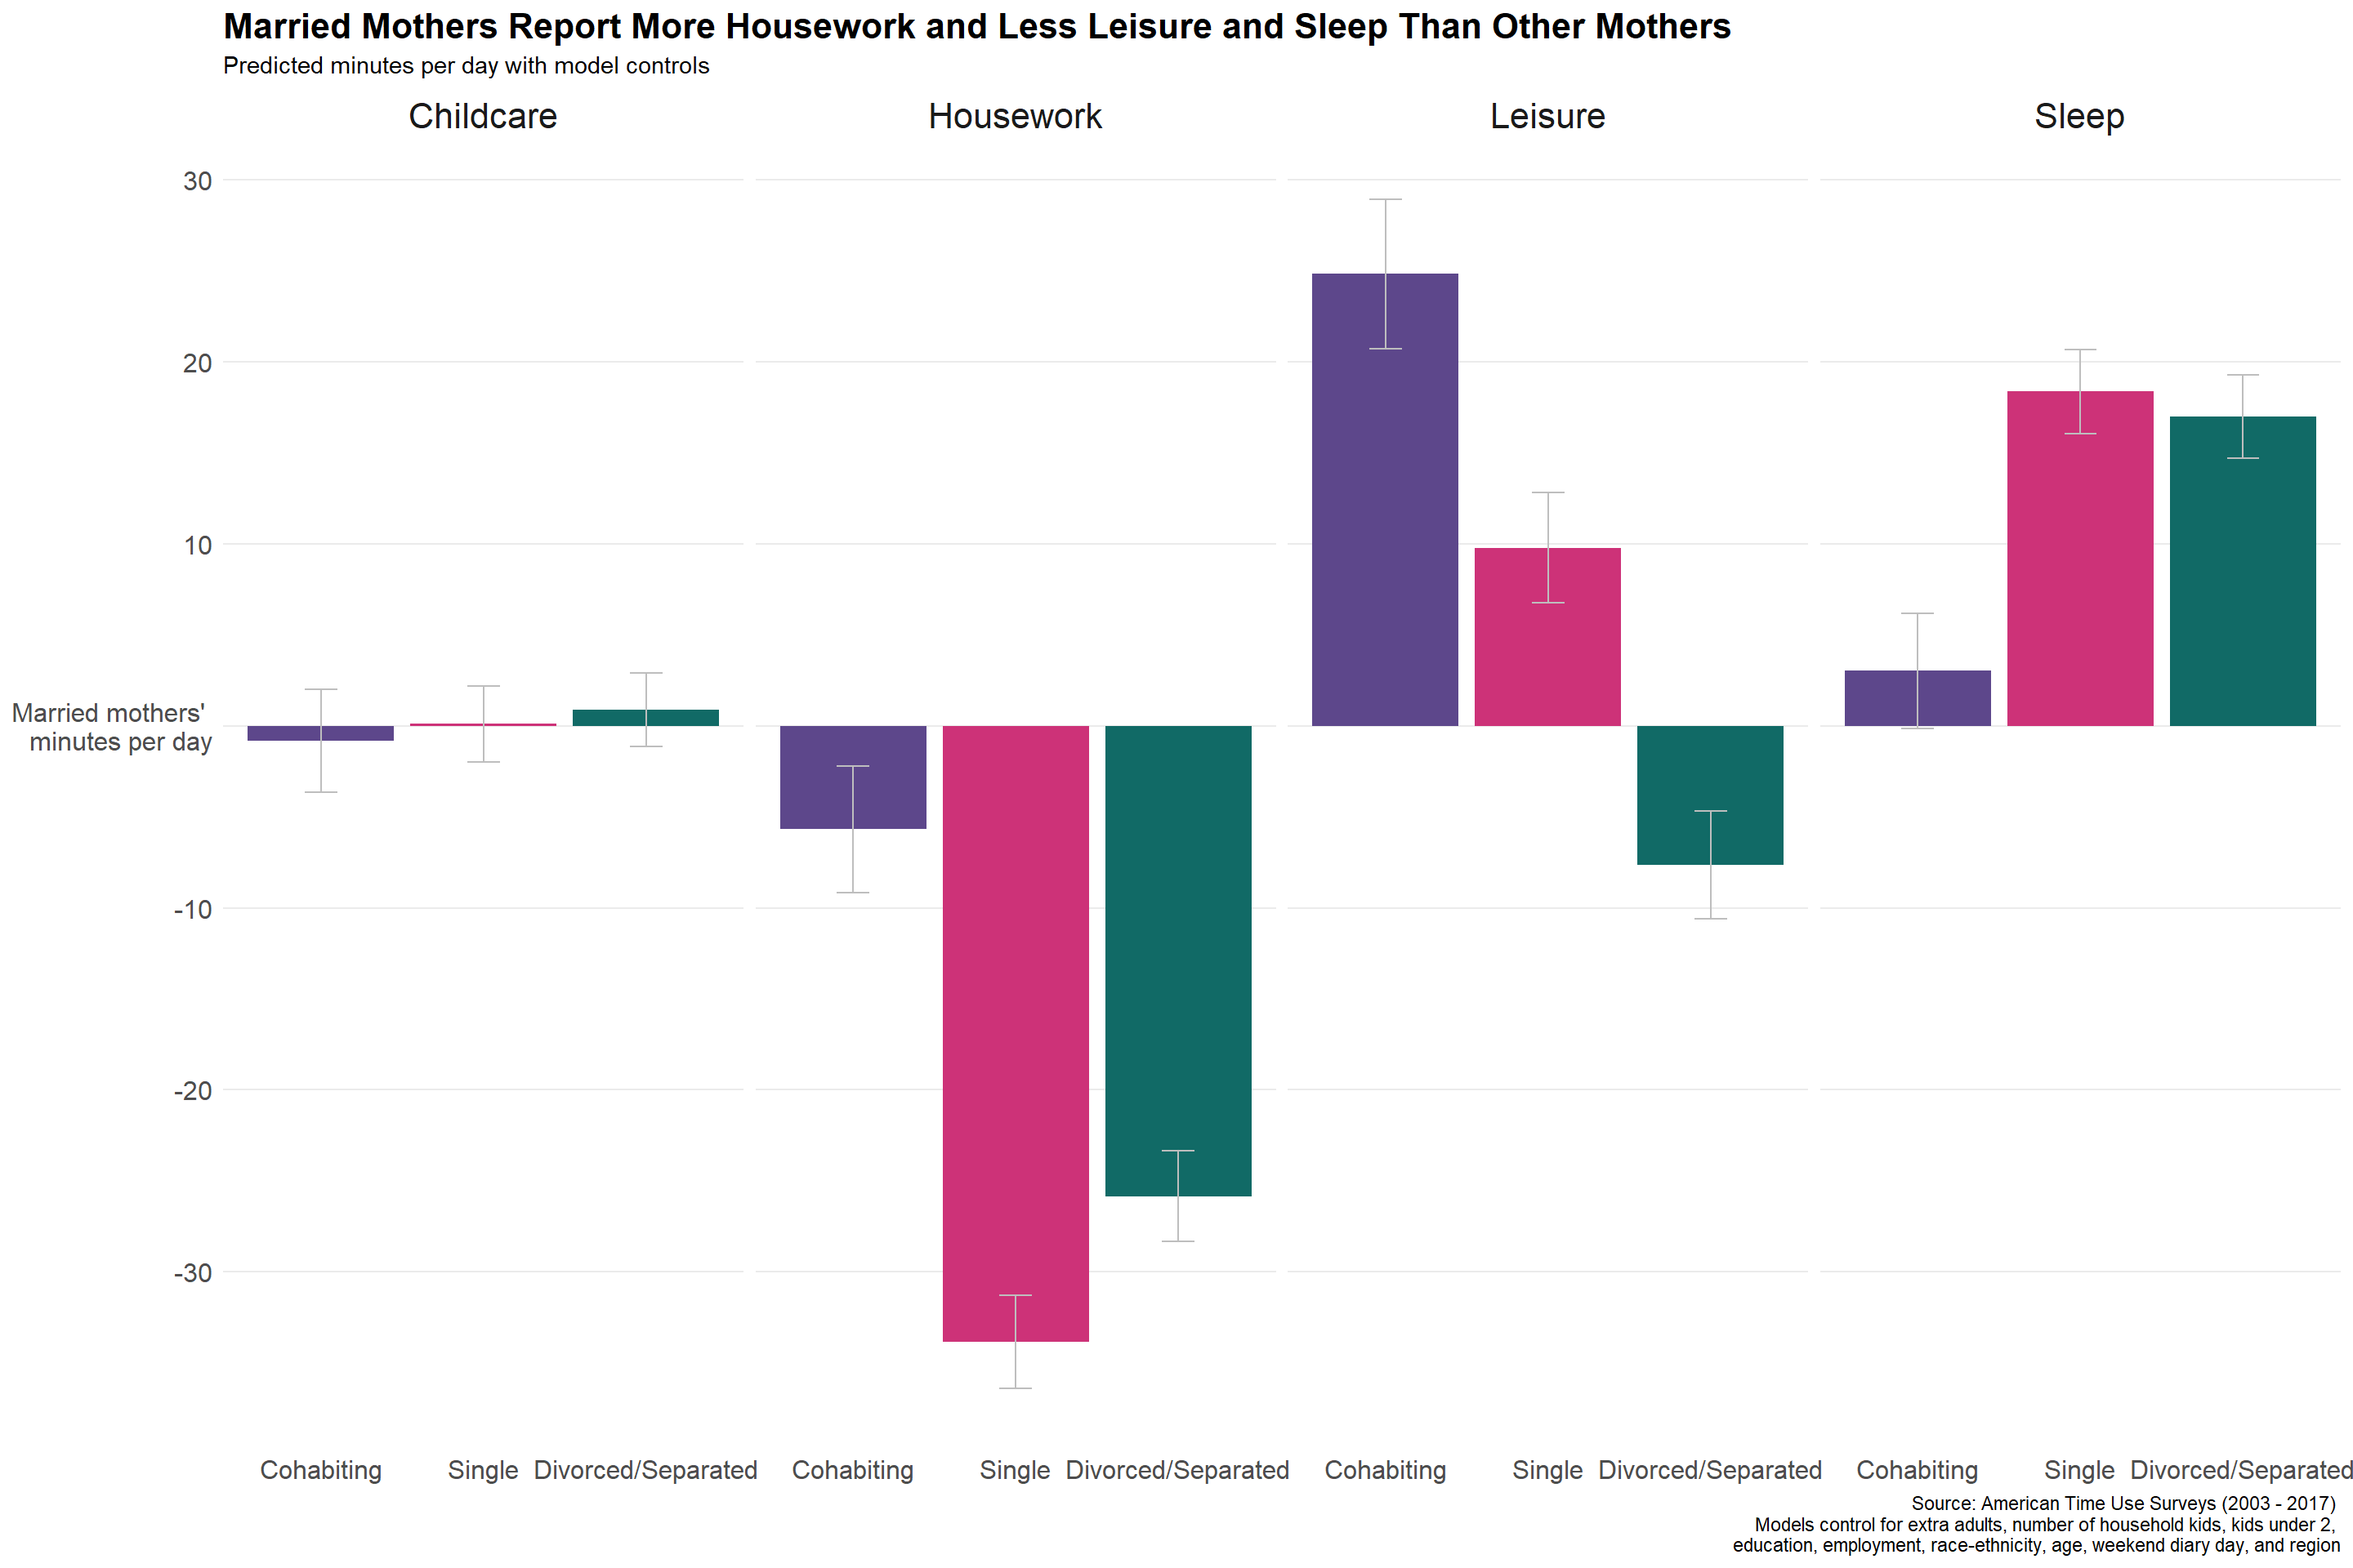
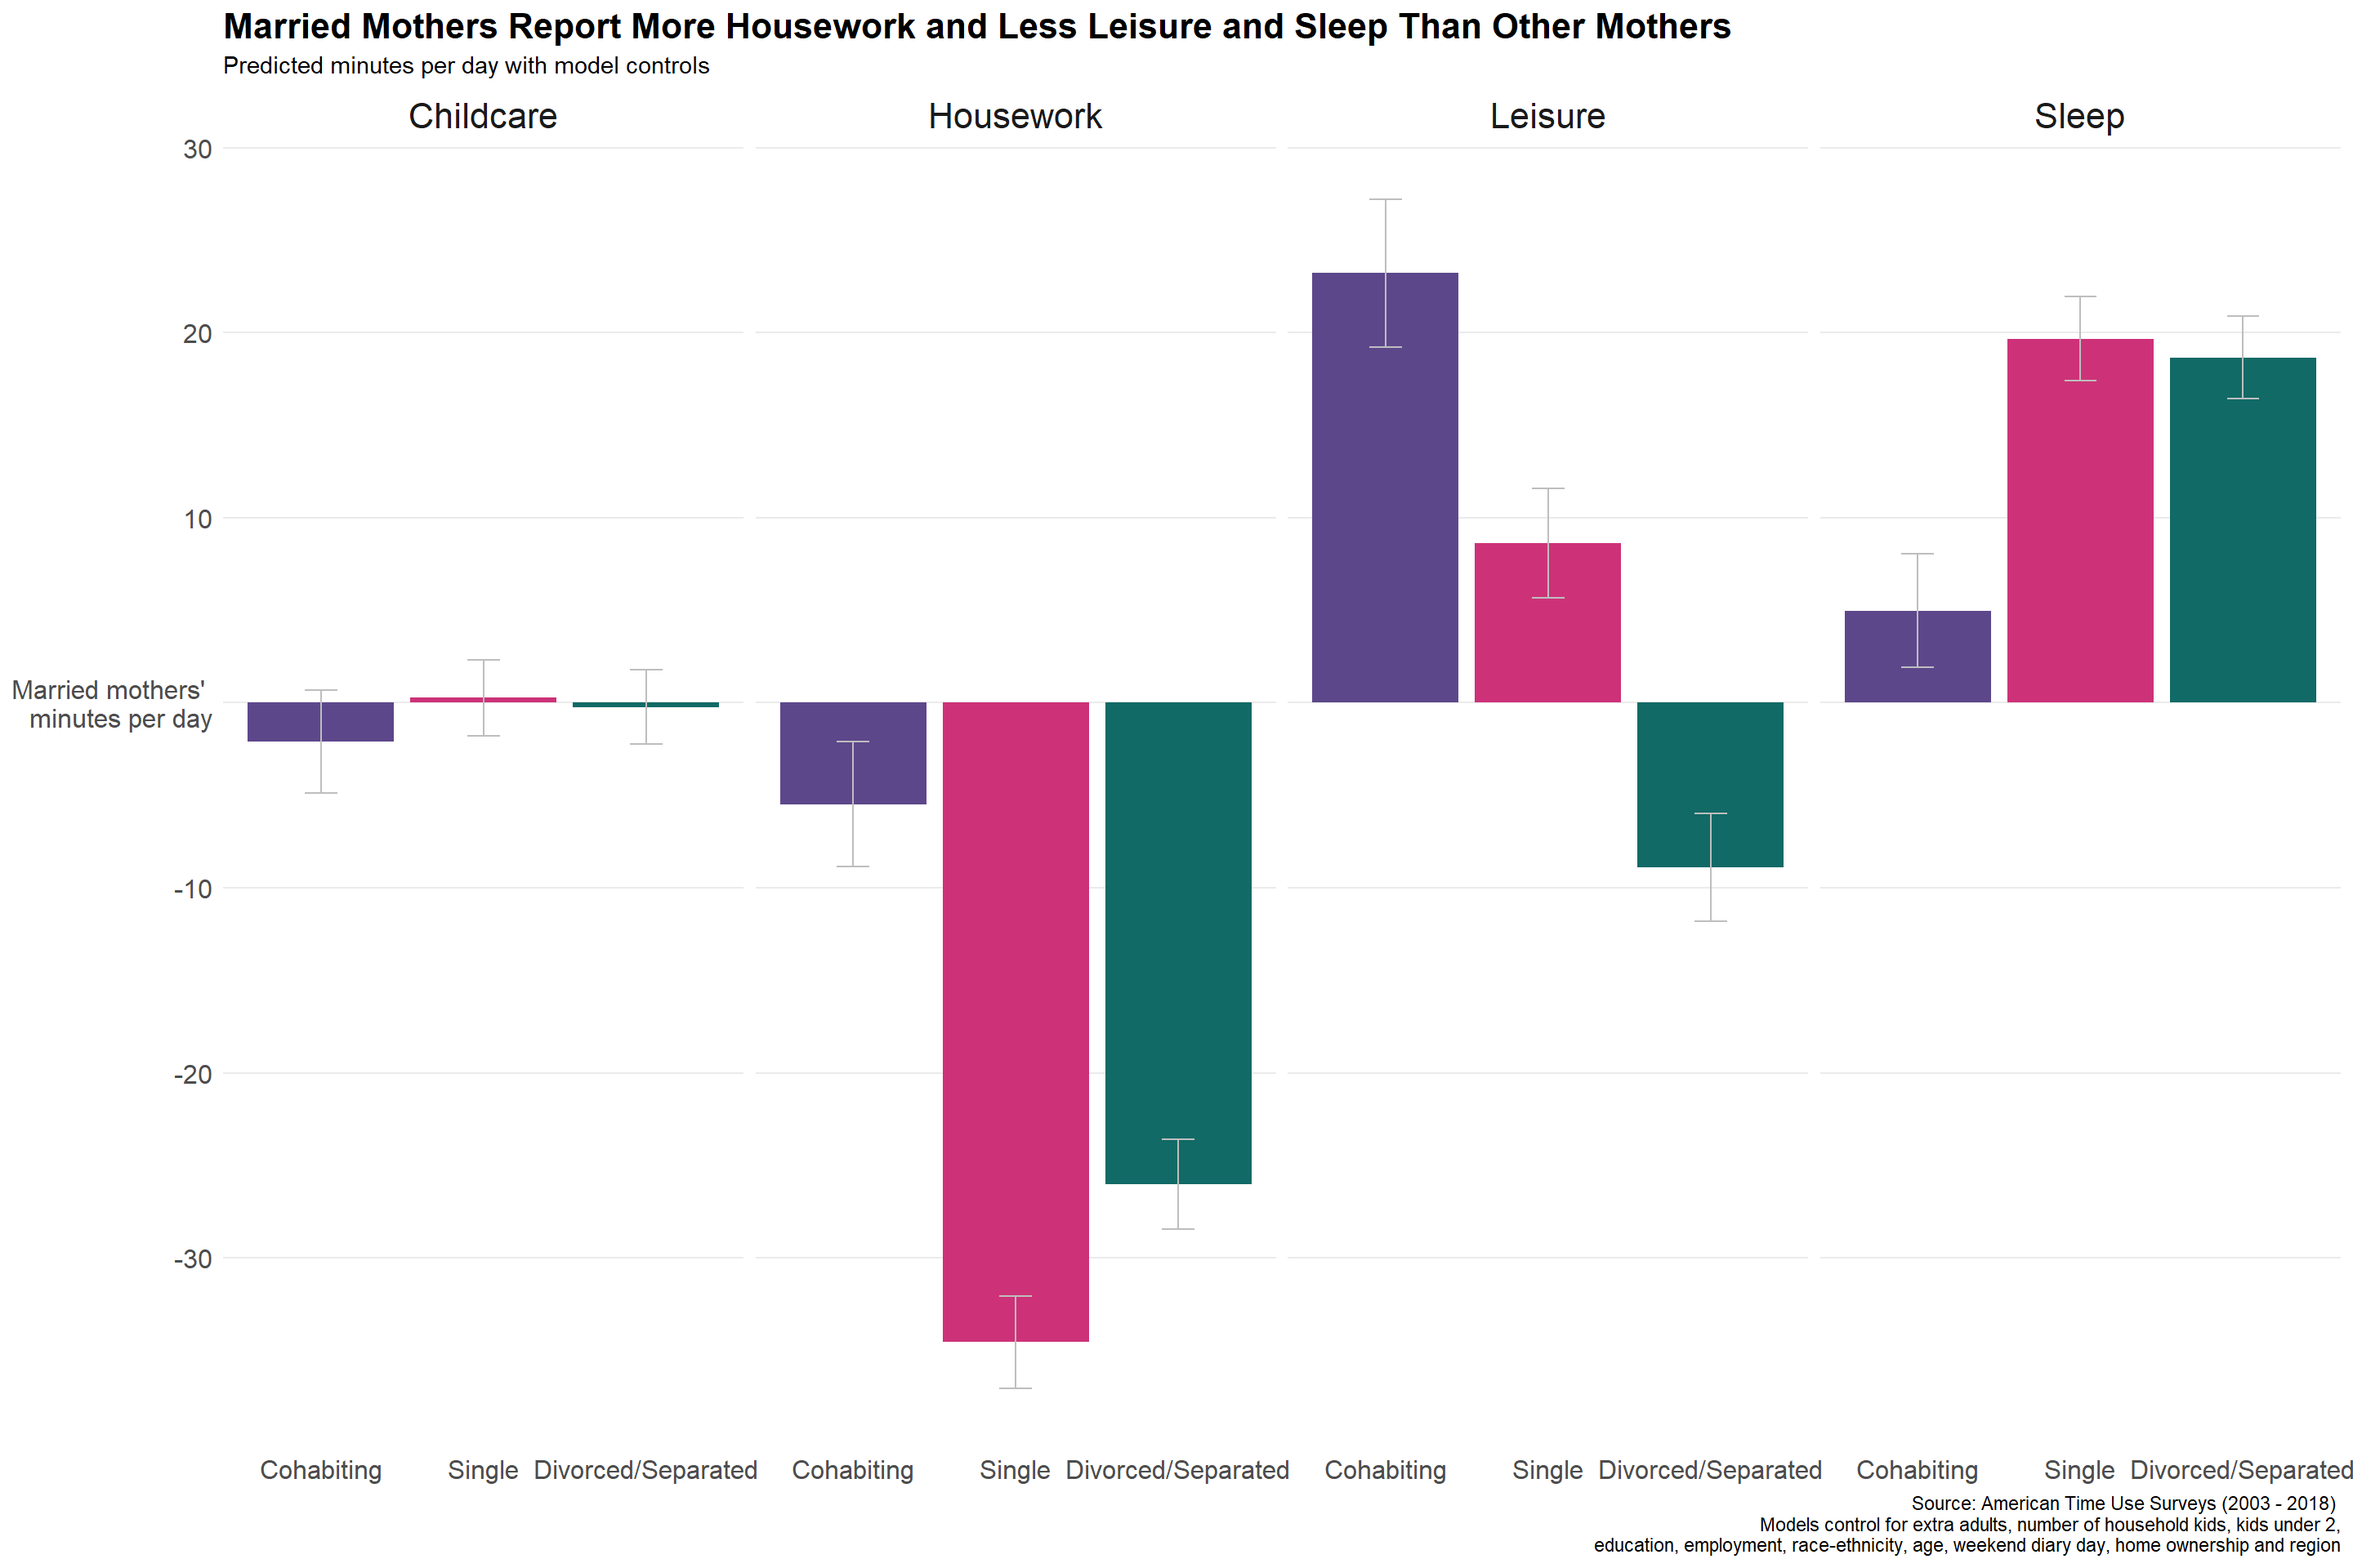
Unordered categorical vars

diff --git a/docs/datapoints.html b/docs/datapoints.html
@@ -192,7 +192,7 @@ $(document).ready(function () {
 <h1 class="title toc-ignore">Analyzing American Time Use Surveys in R</h1>
 <h3 class="subtitle">An Example: Mothers’ Time Use by Marital Status</h3>
 <h4 class="author">Joanna R. Pepin</h4>
-<h4 class="date">29 October, 2019</h4>
+<h4 class="date">02 November, 2019</h4>
 
 </div>
 
@@ -988,7 +988,7 @@ atus &lt;- atus %&gt;%
       spousepres == &quot;No spouse or unmarried partner present&quot;                                 ~ &quot;Divorced/Separated&quot;, 
       TRUE                                                                                   ~  NA_character_ 
     ))
-atus$mar &lt;- factor(atus$mar, levels = c(&quot;Married&quot;, &quot;Cohabiting&quot;, &quot;Single&quot;, &quot;Divorced/Separated&quot;), ordered = TRUE)
+atus$mar &lt;- factor(atus$mar, levels = c(&quot;Married&quot;, &quot;Cohabiting&quot;, &quot;Single&quot;, &quot;Divorced/Separated&quot;), ordered = FALSE)
 
 # Spouse/partner sex
 atus &lt;- atus %&gt;%
@@ -1012,7 +1012,7 @@ atus &lt;- atus %&gt;%
       ((spousepres == &quot;No spouse or unmarried partner present&quot;) &amp; hh_numadults &gt;=2) ~ &quot;Extra adults&quot;,
       TRUE                        ~  NA_character_
     ))
-atus$exfam &lt;- factor(atus$exfam, levels = c(&quot;No extra adults&quot;, &quot;Extra adults&quot;), ordered = TRUE)
+atus$exfam &lt;- factor(atus$exfam, levels = c(&quot;No extra adults&quot;, &quot;Extra adults&quot;), ordered = FALSE)
 
 #Kid under 2
 atus &lt;- atus %&gt;%
@@ -1124,8 +1124,8 @@ atus &lt;- na.omit(atus)
 ##  $ telesp       : int  60 265 120 0 0 53 0 0 0 0 ...
 ##  $ age          : int  41 36 33 39 33 32 45 39 25 42 ...
 ##  $ sex          : Factor w/ 2 levels &quot;Men&quot;,&quot;Women&quot;: 2 2 2 2 2 2 2 2 2 2 ...
-##  $ mar          : Ord.factor w/ 4 levels &quot;Married&quot;&lt;&quot;Cohabiting&quot;&lt;..: 1 1 1 1 3 1 1 4 4 3 ...
-##  $ exfam        : Ord.factor w/ 2 levels &quot;No extra adults&quot;&lt;..: 1 1 1 1 1 1 1 1 1 1 ...
+##  $ mar          : Factor w/ 4 levels &quot;Married&quot;,&quot;Cohabiting&quot;,..: 1 1 1 1 3 1 1 4 4 3 ...
+##  $ exfam        : Factor w/ 2 levels &quot;No extra adults&quot;,..: 1 1 1 1 1 1 1 1 1 1 ...
 ##  $ kidu2        : Factor w/ 2 levels &quot;No children &lt; 2&quot;,..: 2 1 1 1 1 2 1 2 1 1 ...
 ##  $ hh_numownkids: int  2 2 3 4 1 1 2 2 1 2 ...
 ##  $ employ       : Factor w/ 3 levels &quot;Full-time&quot;,&quot;Part-time&quot;,..: 2 3 1 1 1 1 1 2 1 1 ...
